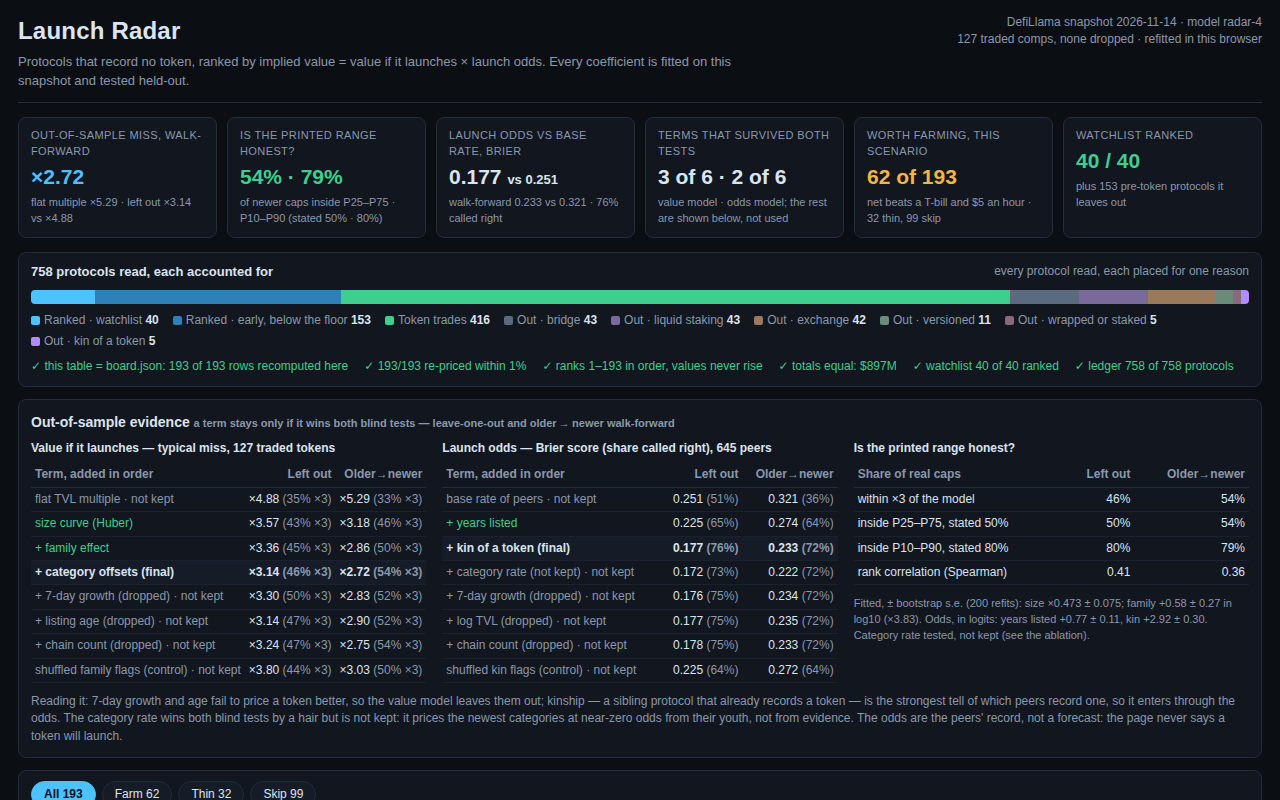
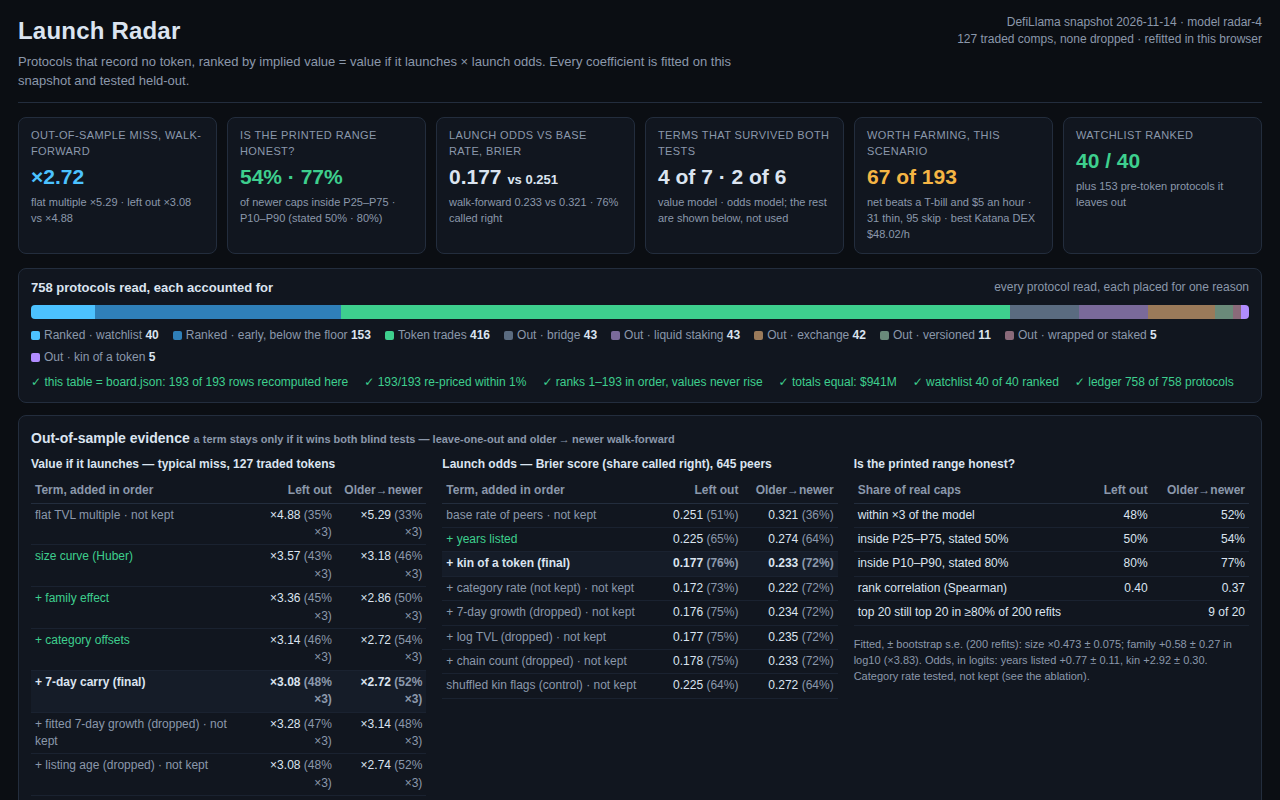
radar-4: fixed 7-day carry + top-20 stability + best-farm/fees on the board
Top-10 study (all 10 artifacts; source withheld by every entry, 0/14457
public repos): a fixed momentum carry is the one pattern 7 of 10 keep that
v3 lacked. Tested 5 fixed forms blind; 1 + (7d change - market median),
clipped to +/-25%, wins both tests on the median miss (LOO x3.0791 vs
x3.1441, WF x2.7151 vs x2.7246) and is kept as the final term; the fitted
growth coefficient stays dropped (negative). Also: top-20 stability from
the 200 bootstrap refits (9 of 20 hold in >=80%), best farm on the KPI
strip, gas + hands-on hours under each row's net, and the carry shown in
the detail price breakdown. LOO x3.08 / WF x2.72, 193 rows, $0.94B
implied, 67 FARM / 31 THIN / 95 SKIP, seal 29c6b841.

Changed region(s): [[0.0, 0.2812, 1.0, 1.0], [0.75, 0.25, 0.8125, 0.2812]]

diff --git a/lib/model.ts b/lib/model.ts
@@ -2,10 +2,14 @@
 //
 // One line: implied value = value-if-launched x P(records a token).
 //   value-if-launched: a Huber log-log size curve fitted on every
-//     one-per-ticker traded comp (127), with ridge-shrunk category offsets
-//     and a family effect for protocols that share a name stem.
-//   P(records a token): a logistic fit on years listed, kinship (a sibling
-//     protocol already records a token) and the category's token rate.
+//     one-per-ticker traded comp (127), with ridge-shrunk category offsets,
+//     a family effect for protocols that share a name stem, and a fixed
+//     7-day carry: one more week of the move beyond the market median,
+//     clipped to +/-25% (a fitted growth coefficient is negative and is
+//     not used — only the fixed carry survives both blind tests).
+//   P(records a token): a logistic fit on years listed and kinship (a
+//     sibling protocol already records a token). The category rate is
+//     tested, not kept: it is confounded by category age.
 // A term enters either fit only if it lowers the held-out miss (value) or
 // the Brier score (odds) in BOTH blind tests: leave-one-out and
 // older -> newer walk-forward. Everything else is shown as tried-and-dropped.
@@ -289,7 +293,7 @@ export function pickComps(protos: Proto[], groups: Map<string, Proto[]>): Comp[]
 
 // ------------------------------------------------------------------ value fit
 
-/** Which terms a value fit carries. The final model is size + cat + fam. */
+/** Which terms a value fit carries. The final model is size + cat + fam + carry. */
 export interface ValueSpec {
   cat: boolean;
   fam: boolean;
@@ -298,9 +302,10 @@ export interface ValueSpec {
   age: boolean; // fitted log-age term (ablation only)
   nch: boolean; // chain-count term (ablation only)
   shuf: boolean; // shuffled family flags (negative control)
+  carry: boolean; // fixed 7-day carry: 1 + (7d change - market median), clipped to +/-25%
 }
 
-export const FINAL_VALUE: ValueSpec = { cat: true, fam: true, kin: false, mom: false, age: false, nch: false, shuf: false };
+export const FINAL_VALUE: ValueSpec = { cat: true, fam: true, kin: false, mom: false, age: false, nch: false, shuf: false, carry: true };
 export const CAT_RIDGE = 6;
 
 /** A fitted value model, with everything the page needs to reprice a row. */
@@ -394,6 +399,11 @@ export function fitValue(train: Comp[], asOf: string, spec: ValueSpec, shufMap?:
     if (spec.age && age !== null) v += ageCoef * (Math.log10(age + 30) - meanLogAge);
     if (spec.nch) v += nchCoef * Math.log10(Math.max(1, nChains));
     if (spec.shuf) v += shufCoef * shufFlag;
+    // Fixed 7-day carry, applied after the fit: one more week of the move
+    // beyond the market median of the fit set, clipped to +/-25%. The
+    // market median is the fit set's own, so each blind fold carries with
+    // the median its training half saw — no leakage from the held-out row.
+    if (spec.carry) v += Math.log10(Math.max(0.75, Math.min(1.25, 1 + (chg - mchg) / 100)));
     return 10 ** v;
   };
   return {
@@ -526,10 +536,11 @@ export interface AblationRow {
  * and the shuffled control are shown, not hidden.
  */
 export function valueAblation(comps: Comp[], asOf: string): AblationRow[] {
-  const none: ValueSpec = { cat: false, fam: false, kin: false, mom: false, age: false, nch: false, shuf: false };
+  const none: ValueSpec = { cat: false, fam: false, kin: false, mom: false, age: false, nch: false, shuf: false, carry: false };
   const flat = checkFlat(comps);
   const size = checkValue(comps, asOf, none);
   const fam = checkValue(comps, asOf, { ...none, fam: true });
+  const cat = checkValue(comps, asOf, { ...FINAL_VALUE, carry: false });
   const final = checkValue(comps, asOf, FINAL_VALUE);
   const mom = checkValue(comps, asOf, { ...FINAL_VALUE, mom: true });
   const age = checkValue(comps, asOf, { ...FINAL_VALUE, age: true });
@@ -539,10 +550,11 @@ export function valueAblation(comps: Comp[], asOf: string): AblationRow[] {
     { label: "flat TVL multiple", kept: false, note: "baseline: one median mcap/TVL for all", loo: flat.loo, wf: flat.wf },
     { label: "size curve (Huber)", kept: true, note: "log-log fit on all 127 comps, no comps dropped", loo: size.loo, wf: size.wf },
     { label: "+ family effect", kept: true, note: "protocols sharing a name stem price higher per TVL", loo: fam.loo, wf: fam.wf },
-    { label: "+ category offsets (final)", kept: true, note: "ridge-shrunk, categories with 3+ comps", loo: final.loo, wf: final.wf },
-    { label: "+ 7-day growth (dropped)", kept: false, note: "fitted coefficient is negative; wins neither test", loo: mom.loo, wf: mom.wf },
+    { label: "+ category offsets", kept: true, note: "ridge-shrunk, categories with 3+ comps", loo: cat.loo, wf: cat.wf },
+    { label: "+ 7-day carry (final)", kept: true, note: "fixed 1 + (7d change - market median), clipped to +/-25%; wins both tests", loo: final.loo, wf: final.wf },
+    { label: "+ fitted 7-day growth (dropped)", kept: false, note: "a fitted log-coefficient on the same move; the coefficient is negative and wins neither test", loo: mom.loo, wf: mom.wf },
     { label: "+ listing age (dropped)", kept: false, note: "no LOO gain, walk-forward worse", loo: age.loo, wf: age.wf },
-    { label: "+ chain count (dropped)", kept: false, note: "no gain in either test", loo: nch.loo, wf: nch.wf },
+    { label: "+ chain count (dropped)", kept: false, note: "wins the walk-forward by a hair (x2.712 vs x2.715) but loses leave-one-out (x3.128 vs x3.079); a term must win both", loo: nch.loo, wf: nch.wf },
     { label: "shuffled family flags (control)", kept: false, note: "family flags shuffled: the signal is destroyed, the miss returns toward the size-only level", loo: shuf.loo, wf: shuf.wf },
   ];
 }
@@ -810,6 +822,7 @@ export function ageBandRates(dated: Proto[], asOf: string): { label: string; n: 
 
 export interface BootstrapOut {
   rankRange: Map<string, [number, number]>;
+  top20Share: Map<string, number>; // share of refits in which the row still ranks top 20
   slopeSe: number;
   interceptSe: number;
   famSe: number;
@@ -819,7 +832,8 @@ export interface BootstrapOut {
 /**
  * 200 bootstrap refits (seed 20261114): resample the comps, refit the value
  * model, reprice every board row, record each row's rank; the P10–P90 of the
- * 200 ranks is the printed rank range, and the spread of the refitted
+ * 200 ranks is the printed rank range, the share of refits a row still ranks
+ * top 20 is its top-20 stability, and the spread of the refitted
  * coefficients is their standard error. The odds fit is refitted on
  * resampled dated protocols for its own coefficient errors.
  */
@@ -834,7 +848,11 @@ export function bootstrapAll(
 ): BootstrapOut {
   const rng = mulberry32(seed);
   const ranks = new Map<string, number[]>();
-  for (const r of rows) ranks.set(r.slug, []);
+  const top20 = new Map<string, number>();
+  for (const r of rows) {
+    ranks.set(r.slug, []);
+    top20.set(r.slug, 0);
+  }
   const slopes: number[] = [];
   const ints: number[] = [];
   const famCs: number[] = [];
@@ -848,12 +866,17 @@ export function bootstrapAll(
     const priced = rows
       .map((r) => ({ slug: r.slug, v: fit.predict(r.tvl, r.chg, r.cat, r.fam, 0, r.age, r.nChains, 0) * r.odds }))
       .sort((a, b) => b.v - a.v);
-    priced.forEach((p, i) => ranks.get(p.slug)?.push(i + 1));
+    priced.forEach((p, i) => {
+      ranks.get(p.slug)?.push(i + 1);
+      if (i < 20) top20.set(p.slug, (top20.get(p.slug) ?? 0) + 1);
+    });
   }
   const rankRange = new Map<string, [number, number]>();
+  const top20Share = new Map<string, number>();
   for (const [slug, rs] of ranks) {
     const s = [...rs].sort((a, b) => a - b);
     rankRange.set(slug, [quantileSorted(s, 0.1), quantileSorted(s, 0.9)]);
+    top20Share.set(slug, (top20.get(slug) ?? 0) / refits);
   }
   const oddsBetas: number[][] = [];
   for (let k = 0; k < refits; k++) {
@@ -862,7 +885,7 @@ export function bootstrapAll(
     oddsBetas.push(fitOdds(sample, asOf, FINAL_ODDS, groups).beta);
   }
   const oddsSe = oddsBetas[0]!.map((_, j) => stdev(oddsBetas.map((b) => b[j]!)));
-  return { rankRange, slopeSe: stdev(slopes), interceptSe: stdev(ints), famSe: stdev(famCs), oddsSe };
+  return { rankRange, top20Share, slopeSe: stdev(slopes), interceptSe: stdev(ints), famSe: stdev(famCs), oddsSe };
 }
 
 // ------------------------------------------------------------------ farm economics

diff --git a/dashboard/app.js b/dashboard/app.js
@@ -30,11 +30,15 @@
   // ---- rows: decode the positional arrays, reprice from the fit --------
   // [slug, name, catIdx, chainIdx, nChains, tvlK, chg, age, flags, odds,
   //  impliedM, rankLo, rankHi, fee, hours]; flags bit0 watchlist, bit1 family.
+  function carryOf(chg) {
+    const c = chg === null ? 0 : chg;
+    return Math.max(0.75, Math.min(1.25, 1 + (c - M.fit.mchg) / 100));
+  }
   function priceRow(r) {
     const tvl = r[5] * 1000;
     const fam = (r[8] & 2) ? 1 : 0;
     const off = M.off[r[2]] || 0;
-    return Math.pow(10, M.fit.a + M.fit.b * Math.log10(tvl) + off + fam * M.fit.fam);
+    return Math.pow(10, M.fit.a + M.fit.b * Math.log10(tvl) + off + fam * M.fit.fam) * carryOf(r[6]);
   }
   const ROWS = D.rows.map((r, i) => {
     const vil = priceRow(r);
@@ -132,7 +136,7 @@
     kpi("Is the printed range honest?", M.holds.wf50 + "% &middot; " + M.holds.wf80 + "%", "of newer caps inside P25&ndash;P75 &middot; P10&ndash;P90 (stated 50% &middot; 80%)", "grn") +
     kpi("Launch odds vs base rate, Brier", M.odds.brier + " <span style='font-size:13px'>vs " + M.odds.baseBrier + "</span>", "walk-forward " + M.odds.wfBrier + " vs " + M.odds.wfBaseBrier + " &middot; " + M.odds.hit + "% called right") +
     kpi("Terms that survived both tests", keptCount(M.vabl) + " of " + (M.vabl.length - 2) + " &middot; " + keptCount(M.oabl) + " of " + (M.oabl.length - 2), "value model &middot; odds model; the rest are shown below, not used") +
-    kpi("Worth farming, this scenario", vc.FARM + " of " + n, "net beats a T-bill and $5 an hour &middot; " + vc.THIN + " thin, " + vc.SKIP + " skip", "amb") +
+    kpi("Worth farming, this scenario", vc.FARM + " of " + n, "net beats a T-bill and $5 an hour &middot; " + vc.THIN + " thin, " + vc.SKIP + " skip &middot; best " + esc(M.bestFarm.name) + " " + usdExact(M.bestFarm.netPerHour) + "/h", "amb") +
     kpi("Watchlist ranked", nWatch + " / " + M.watchTotal, "plus " + (n - nWatch) + " pre-token protocols it leaves out", "grn");
 
   // ---- ledger -------------------------------------------------------------
@@ -176,13 +180,14 @@
     '<tr><td>within &times;3 of the model</td><td class="num">' + Math.round(M.loo.w3 * 100) + '%</td><td class="num">' + Math.round(M.wf.w3 * 100) + '%</td></tr>' +
     '<tr><td>inside P25&ndash;P75, stated 50%</td><td class="num">' + M.holds.loo50 + '%</td><td class="num">' + M.holds.wf50 + '%</td></tr>' +
     '<tr><td>inside P10&ndash;P90, stated 80%</td><td class="num">' + M.holds.loo80 + '%</td><td class="num">' + M.holds.wf80 + '%</td></tr>' +
-    '<tr><td>rank correlation (Spearman)</td><td class="num">' + M.loo.rho.toFixed(2) + '</td><td class="num">' + M.wf.rho.toFixed(2) + '</td></tr>';
+    '<tr><td>rank correlation (Spearman)</td><td class="num">' + M.loo.rho.toFixed(2) + '</td><td class="num">' + M.wf.rho.toFixed(2) + '</td></tr>' +
+    '<tr><td>top 20 still top 20 in &ge;80% of 200 refits</td><td class="num" colspan="2">' + M.top20.hold + " of " + M.top20.of + "</td></tr>";
   $("coefLine").innerHTML = "Fitted, &plusmn; bootstrap s.e. (200 refits): size &times;" + M.fit.b.toFixed(3) + " &plusmn; " + M.fit.se.b.toFixed(3) +
     "; family +" + M.fit.fam.toFixed(2) + " &plusmn; " + M.fit.se.fam.toFixed(2) + " in log10 (&times;" + Math.pow(10, M.fit.fam).toFixed(2) + "). " +
     "Odds, in logits: years listed +" + M.oddsFit.beta[1].toFixed(2) + " &plusmn; " + M.oddsFit.se[1].toFixed(2) +
     ", kin +" + M.oddsFit.beta[2].toFixed(2) + " &plusmn; " + M.oddsFit.se[2].toFixed(2) +
     ". Category rate tested, not kept (see the ablation).";
-  $("evNote").textContent = "Reading it: 7-day growth and age fail to price a token better, so the value model leaves them out; kinship — a sibling protocol that already records a token — is the strongest tell of which peers record one, so it enters through the odds. The category rate wins both blind tests by a hair but is not kept: it prices the newest categories at near-zero odds from their youth, not from evidence. The odds are the peers' record, not a forecast: the page never says a token will launch.";
+  $("evNote").textContent = "Reading it: a fixed 7-day carry — one more week of the move beyond the market's, clipped to ±25% — survives both tests and is kept, while a fitted growth coefficient on the same move is negative and is not used; age and chain count fail too. Kinship — a sibling protocol that already records a token — is the strongest tell of which peers record one, so it enters through the odds. The category rate wins both blind tests by a hair but is not kept: it prices the newest categories at near-zero odds from their youth, not from evidence. The odds are the peers' record, not a forecast: the page never says a token will launch.";
 
   // ---- controls -----------------------------------------------------------
   let chipVerdict = "", sortKey = "rank", sortDir = 1, selected = null;
@@ -272,7 +277,7 @@
         '<td class="num">' + usdShort(r.vil) + "</td>" +
         '<td class="num">' + pct(r.odds) + "</td>" +
         '<td class="num"><b>' + usdShort(r.implied) + '</b><br><span class="rng">' + usdShort(r.lo) + "–" + usdShort(r.hi) + "</span></td>" +
-        '<td class="num">' + usdExact(r.econ.net) + '</td><td class="v' + r.econ.verdict + '">' + r.econ.verdict + "</td></tr>";
+        '<td class="num">' + usdExact(r.econ.net) + '<br><span class="rng">' + usdExact(r.fee) + " fees · " + r.hours + 'h</span></td><td class="v' + r.econ.verdict + '">' + r.econ.verdict + "</td></tr>";
     }).join("");
     $("boardBody").querySelectorAll("tr").forEach((tr) => tr.addEventListener("click", () => { selected = tr.dataset.slug; renderBoard(); renderDetail(selected); }));
   }
@@ -295,6 +300,7 @@
       kv("Size curve", "10^" + M.fit.a.toFixed(2) + " × TVL^" + M.fit.b.toFixed(3) + " = " + usdShort(Math.pow(10, M.fit.a + M.fit.b * Math.log10(r.tvl)))) +
       (r.fam ? kv("Family effect", "&times;" + Math.pow(10, M.fit.fam).toFixed(2)) : "") +
       kv("Category offset", "&times;" + Math.pow(10, M.off[r.catIdx] || 0).toFixed(2)) +
+      kv("7-day carry", "&times;" + carryOf(r.chg).toFixed(2) + " <span class='muted'>(one more week beyond the market median, clipped to ±25%)</span>") +
       kv("Value if it launches", "<b>" + usdShort(r.vil) + "</b>") +
       kv("Launch odds", "<b>" + pct(r.odds) + "</b> <span class='muted'>(" + b[0].toFixed(2) + " + years " + (zYrs >= 0 ? "+" : "") + zYrs.toFixed(2) + " in logits; kin 0 — kin protocols are set aside)</span>") +
       kv("Implied value", "<b>" + usdShort(r.implied) + "</b> <span class='muted'>P25–P75 " + usdShort(r.lo) + "–" + usdShort(r.hi) + " · rank " + r.rankLo + "–" + r.rankHi + "</span>") +

diff --git a/main.ts b/main.ts
@@ -220,6 +220,9 @@ async function main(): Promise<void> {
     THIN: rows.filter((r) => r.verdict === "THIN").length,
     SKIP: rows.filter((r) => r.verdict === "SKIP").length,
   };
+  // Top-20 stability: how many of the board's top 20 still rank top 20 in
+  // at least 80% of the 200 bootstrap refits.
+  const top20Hold = rows.slice(0, 20).filter((r) => (boot.top20Share.get(r.slug) ?? 0) >= 0.8).length;
   const bestFarm = [...rows].sort((a, b) => b.netPerHour - a.netPerHour)[0]!;
   const led = ledgerOf(protos, groups);
   const anch = anchorRows(comps, valueFit, asOf);
@@ -266,6 +269,7 @@ async function main(): Promise<void> {
       ledger: led,
       totalImpliedUsd: Math.round(totalImplied),
       verdictCounts,
+      top20Hold: { hold: top20Hold, of: 20, threshold: 0.8, refits: 200 },
       farmDefaults: fp,
       seal: rowSeal,
     },
@@ -309,10 +313,11 @@ async function main(): Promise<void> {
   // Row arrays, positional: [slug, name, catIdx, chainIdx, nChains, tvlK,
   // chg, age, flags, odds, impliedM, rankLo, rankHi, fee, hours]
   // flags: bit 0 = watchlist, bit 1 = shares a name stem (family).
-  // tvlK is whole $K; impliedM carries 3 decimals. The page derives
-  // value-if-launched (from the fitted coefficients), ranges (implied x/div
-  // f50/f80), farm economics and verdicts from these + meta, with the same
-  // formulas as lib/model.ts.
+  // tvlK is whole $K; impliedM carries 3 decimals; chg is carried at full
+  // snapshot precision because the page's 7-day carry depends on it. The
+  // page derives value-if-launched (from the fitted coefficients + the
+  // fixed 7-day carry), ranges (implied x/div f50/f80), farm economics and
+  // verdicts from these + meta, with the same formulas as lib/model.ts.
   const cats = [...new Set(rows.map((r) => r.category))].sort();
   const catIdx = new Map(cats.map((c, i) => [c, i]));
   const chains = [...new Set(rows.flatMap((r) => r.chains))].sort();
@@ -328,9 +333,10 @@ async function main(): Promise<void> {
         a: +valueFit.intercept.toFixed(4),
         b: +valueFit.slope.toFixed(4),
         fam: +valueFit.famCoef.toFixed(4),
-        mchg: +valueFit.marketChg.toFixed(2),
+        mchg: +valueFit.marketChg.toFixed(4),
         se: { b: +boot.slopeSe.toFixed(3), a: +boot.interceptSe.toFixed(3), fam: +boot.famSe.toFixed(3) },
       },
+      top20: { hold: top20Hold, of: 20 },
       oddsFit: {
         beta: oddsFit.beta.map((v) => +v.toFixed(3)),
         se: boot.oddsSe.map((v) => +v.toFixed(3)),
@@ -381,7 +387,7 @@ async function main(): Promise<void> {
       chainIdx.get(r.chains[0] ?? "") ?? -1,
       r.chains.length,
       Math.round(r.tvl / 1000),
-      r.chg === null ? null : +r.chg.toFixed(1),
+      r.chg,
       r.age,
       (r.watch ? 1 : 0) + (r.fam === 1 ? 2 : 0),
       round3(r.odds),
@@ -410,8 +416,9 @@ async function main(): Promise<void> {
   // ---- summary ---------------------------------------------------------------
   console.log(`snapshot ${asOf} — ${protos.length} protocols, ${watch.size} watchlist`);
   console.log(`comps: ${comps.length} one-per-ticker, none dropped`);
-  console.log(`value: log10 value = ${valueFit.intercept.toFixed(3)} + ${valueFit.slope.toFixed(3)} x log10(TVL) + fam ${valueFit.famCoef.toFixed(3)} + cat offsets`);
-  console.log(`LOO x${vFinal.loo.med.toFixed(2)} (flat x${vFlat.loo.med.toFixed(2)}) | WF x${vFinal.wf.med.toFixed(2)} (flat x${vFlat.wf.med.toFixed(2)}) | rho LOO ${vFinal.loo.rho.toFixed(2)} WF ${vFinal.wf.rho.toFixed(2)}`);
+  console.log(`value: log10 value = ${valueFit.intercept.toFixed(3)} + ${valueFit.slope.toFixed(3)} x log10(TVL) + fam ${valueFit.famCoef.toFixed(3)} + cat offsets + 7d carry (market ${valueFit.marketChg.toFixed(2)}%, clip +-25%)`);
+  console.log(`LOO x${vFinal.loo.med.toFixed(2)} (flat x${vFlat.loo.med.toFixed(2)}) | WF x${vFinal.wf.med.toFixed(2)} (flat x${vFlat.wf.med.toFixed(2)}) | rho LOO ${vFinal.loo.rho.toFixed(2)} WF ${vFinal.wf.rho.toFixed(2)} | top-20 hold ${top20Hold}/20`);
+  console.log(`value ablation: ${vAbl.map((r) => `${r.label}=x${r.loo.med.toFixed(2)}/x${r.wf.med.toFixed(2)}${r.kept ? " K" : ""}`).join(" | ")}`);
   console.log(`range holds: LOO ${Math.round(holds.loo50 * 100)}%/${Math.round(holds.loo80 * 100)}% WF ${Math.round(holds.wf50 * 100)}%/${Math.round(holds.wf80 * 100)}% (f50 x${holds.f50}, f80 x${holds.f80})`);
   console.log(`odds: beta [${oddsFit.beta.map((b) => b.toFixed(2)).join(" ")}] | LOO hit ${Math.round(oFinal.loo.hit * 100)}% Brier ${oFinal.loo.brier.toFixed(3)} (base ${oFinal.baseLoo.brier.toFixed(3)}) | WF hit ${Math.round(oFinal.wf.hit * 100)}% Brier ${oFinal.wf.brier.toFixed(3)} (base ${oFinal.baseWf.brier.toFixed(3)})`);
   console.log(`board: ${rows.length} rows, total implied $${(totalImplied / 1e9).toFixed(2)}B, #1 ${rows[0]!.name} $${(rows[0]!.implied / 1e6).toFixed(1)}M`);

diff --git a/README.md b/README.md
@@ -25,11 +25,21 @@ implied value = value-if-launched × P(records a token)
 
 Value-if-launched is a Huber log-log size curve fitted on all 127
 one-per-ticker traded comps — no comps dropped — with ridge-shrunk category
-offsets and a family effect for protocols that share a name stem:
+offsets, a family effect for protocols that share a name stem, and a fixed
+7-day carry (one more week of the move beyond the market median, clipped to
+±25%; a fitted growth coefficient on the same move is negative and is not
+used):
 
 ```
 log10 value = 3.39 + 0.47 × log10(TVL) + category offset + 0.58 × family
+value-if-launched = 10^log10 value × carry
 ```
+
+Held out, the value model misses by ×3.08 leave-one-out and ×2.72
+walk-forward (a flat TVL multiple: ×4.88 and ×5.29). The carry wins both
+tests on the median miss (×3.0791 / ×2.7151, against ×3.1441 / ×2.7246
+without it); 9 of the top 20 rows still rank top 20 in at least 80% of 200
+bootstrap refits.
 
 Launch odds are a logistic fit on years listed and kinship (a sibling protocol
 already records a token). The category's token rate was tested and wins both
